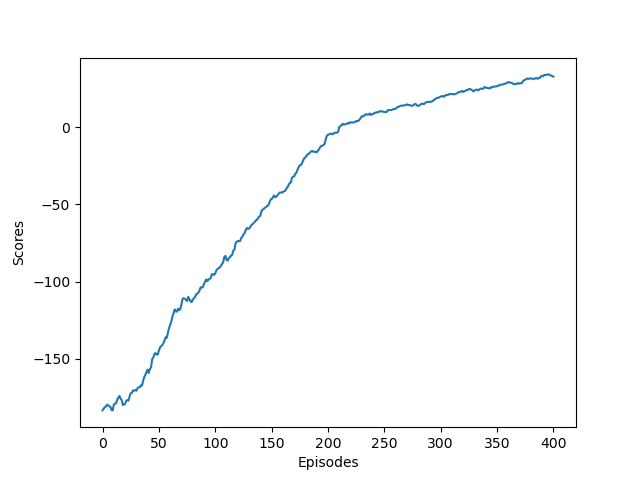
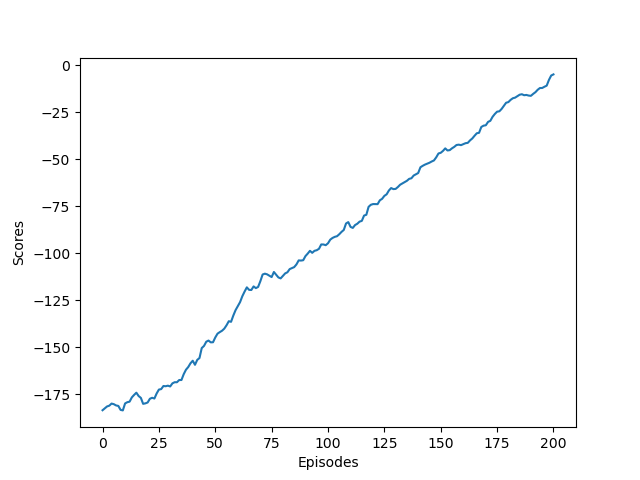
t

diff --git a/train.py b/train.py
@@ -31,7 +31,7 @@ agent = Agent(state_size=8, action_size=4, seed=0)
 # env.close()
 
 
-def dqn(n_episodes=500, max_t=200, eps_start=1.0, eps_end=0.01, eps_decay=0.995):
+def dqn(n_episodes=300, max_t=200, eps_start=1.0, eps_end=0.01, eps_decay=0.995):
     """Deep Q-Learning.
 
     Params
